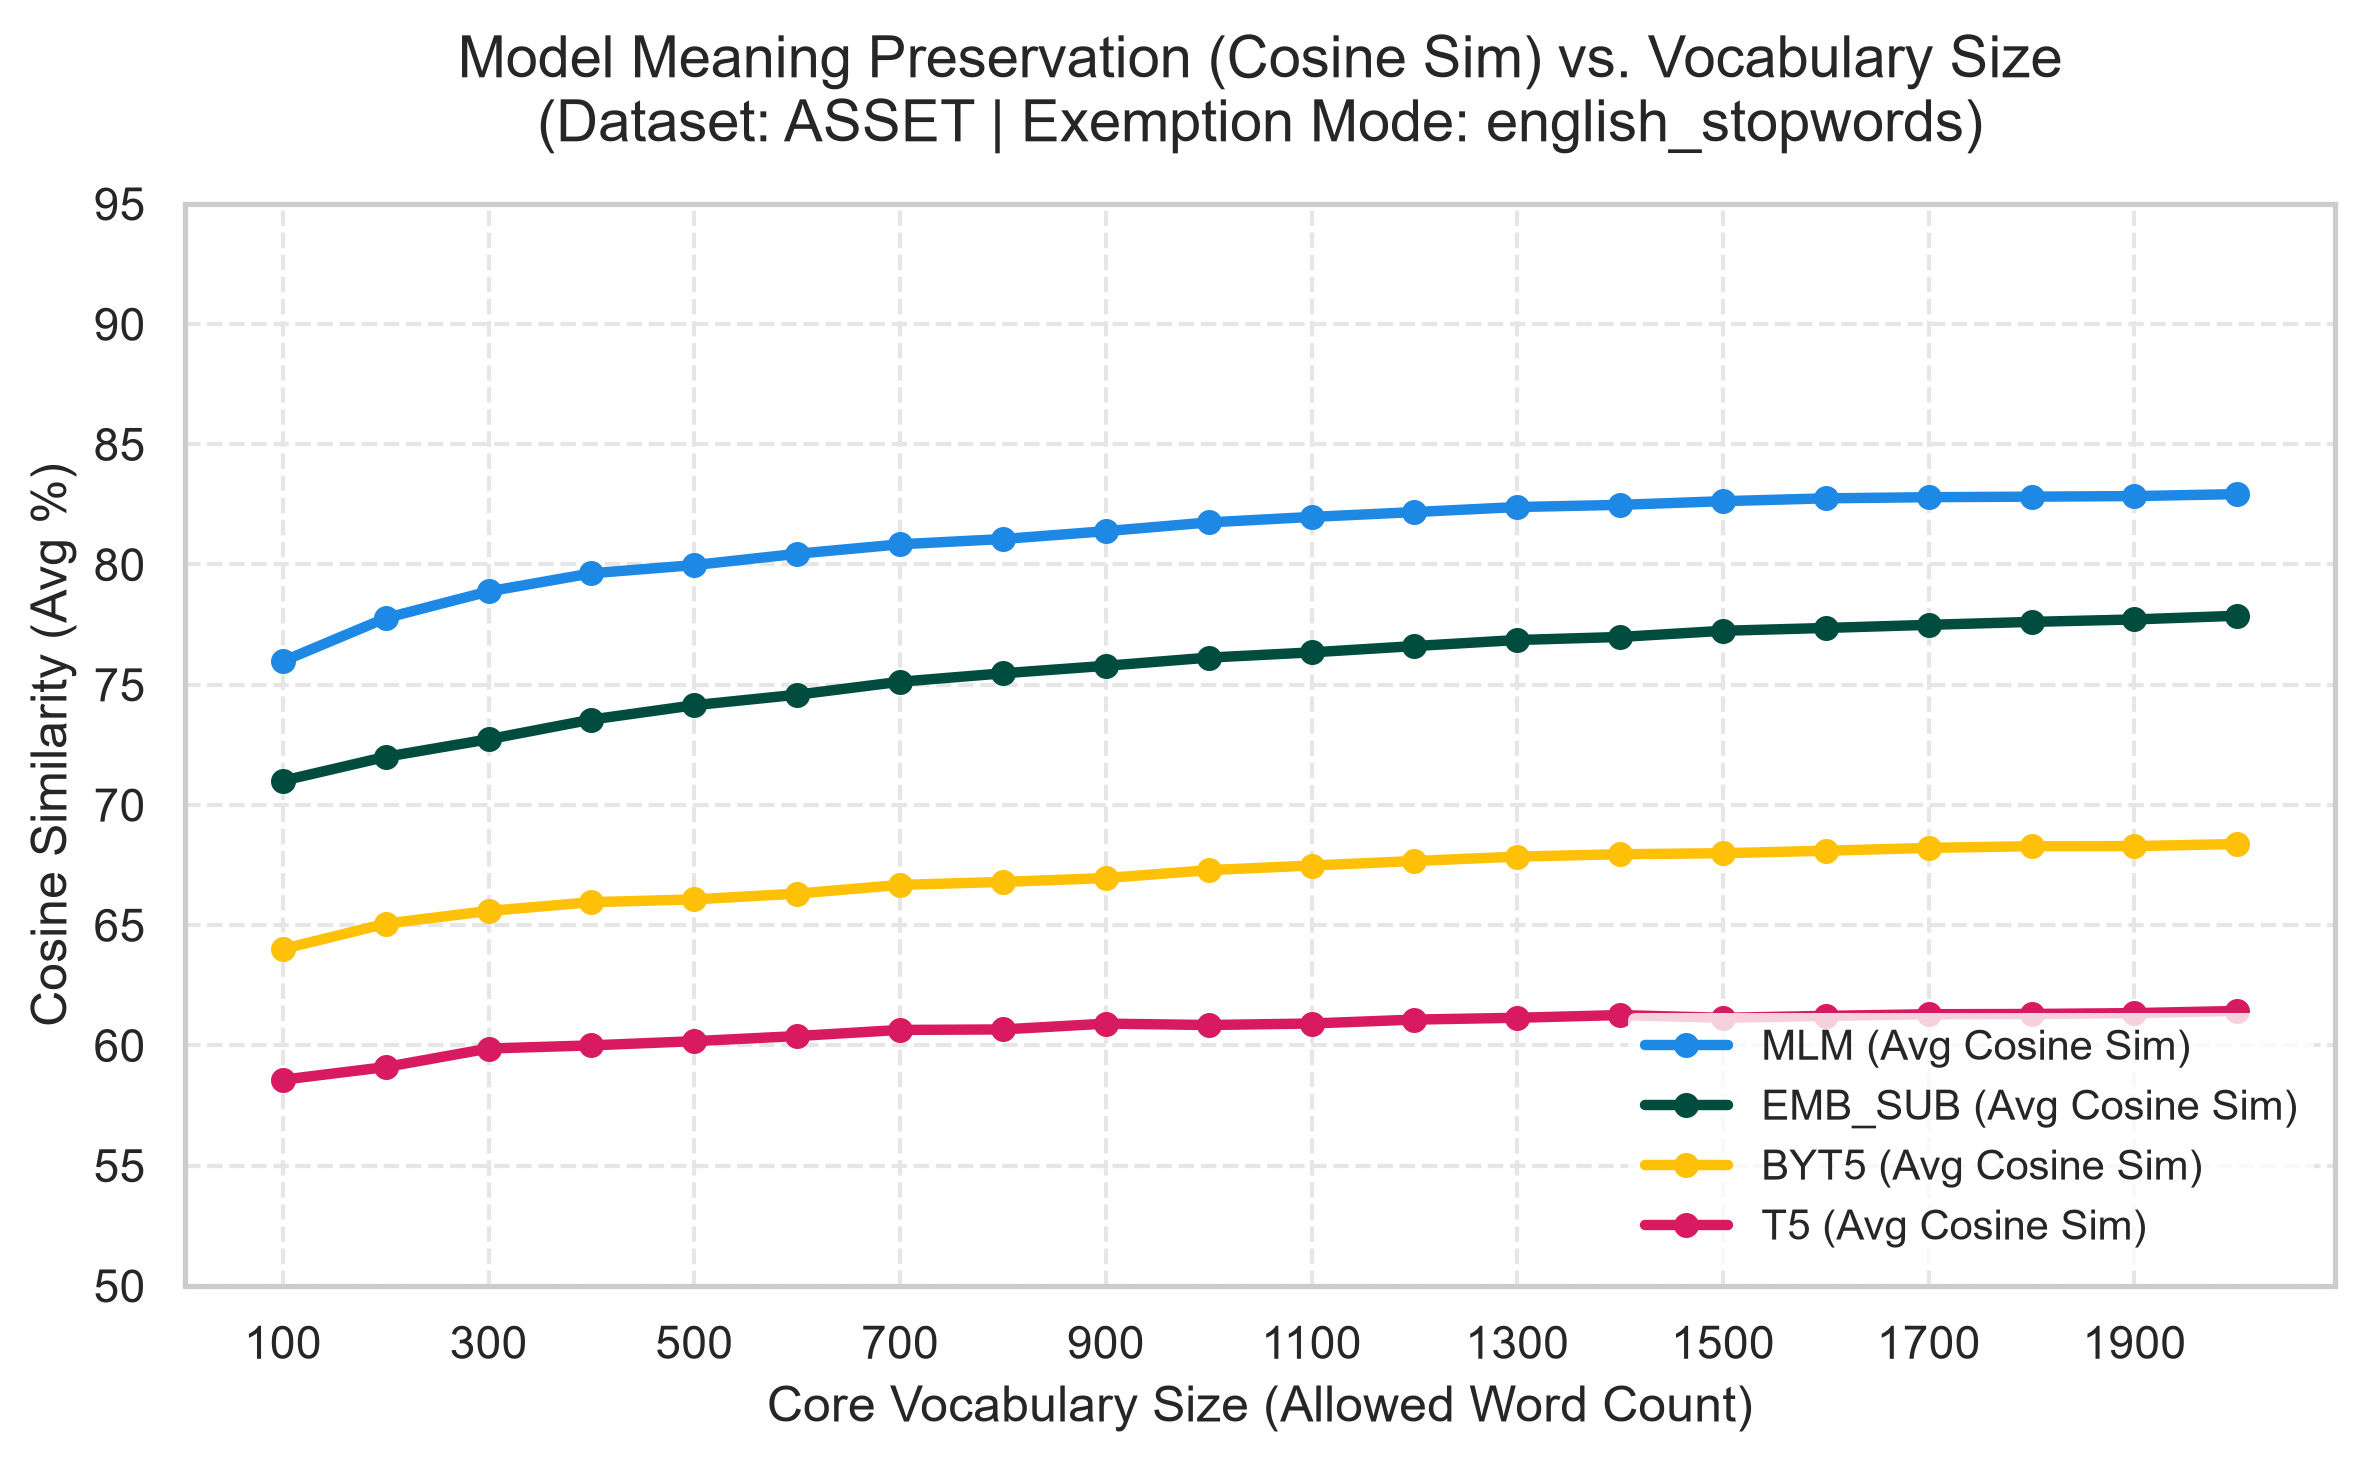
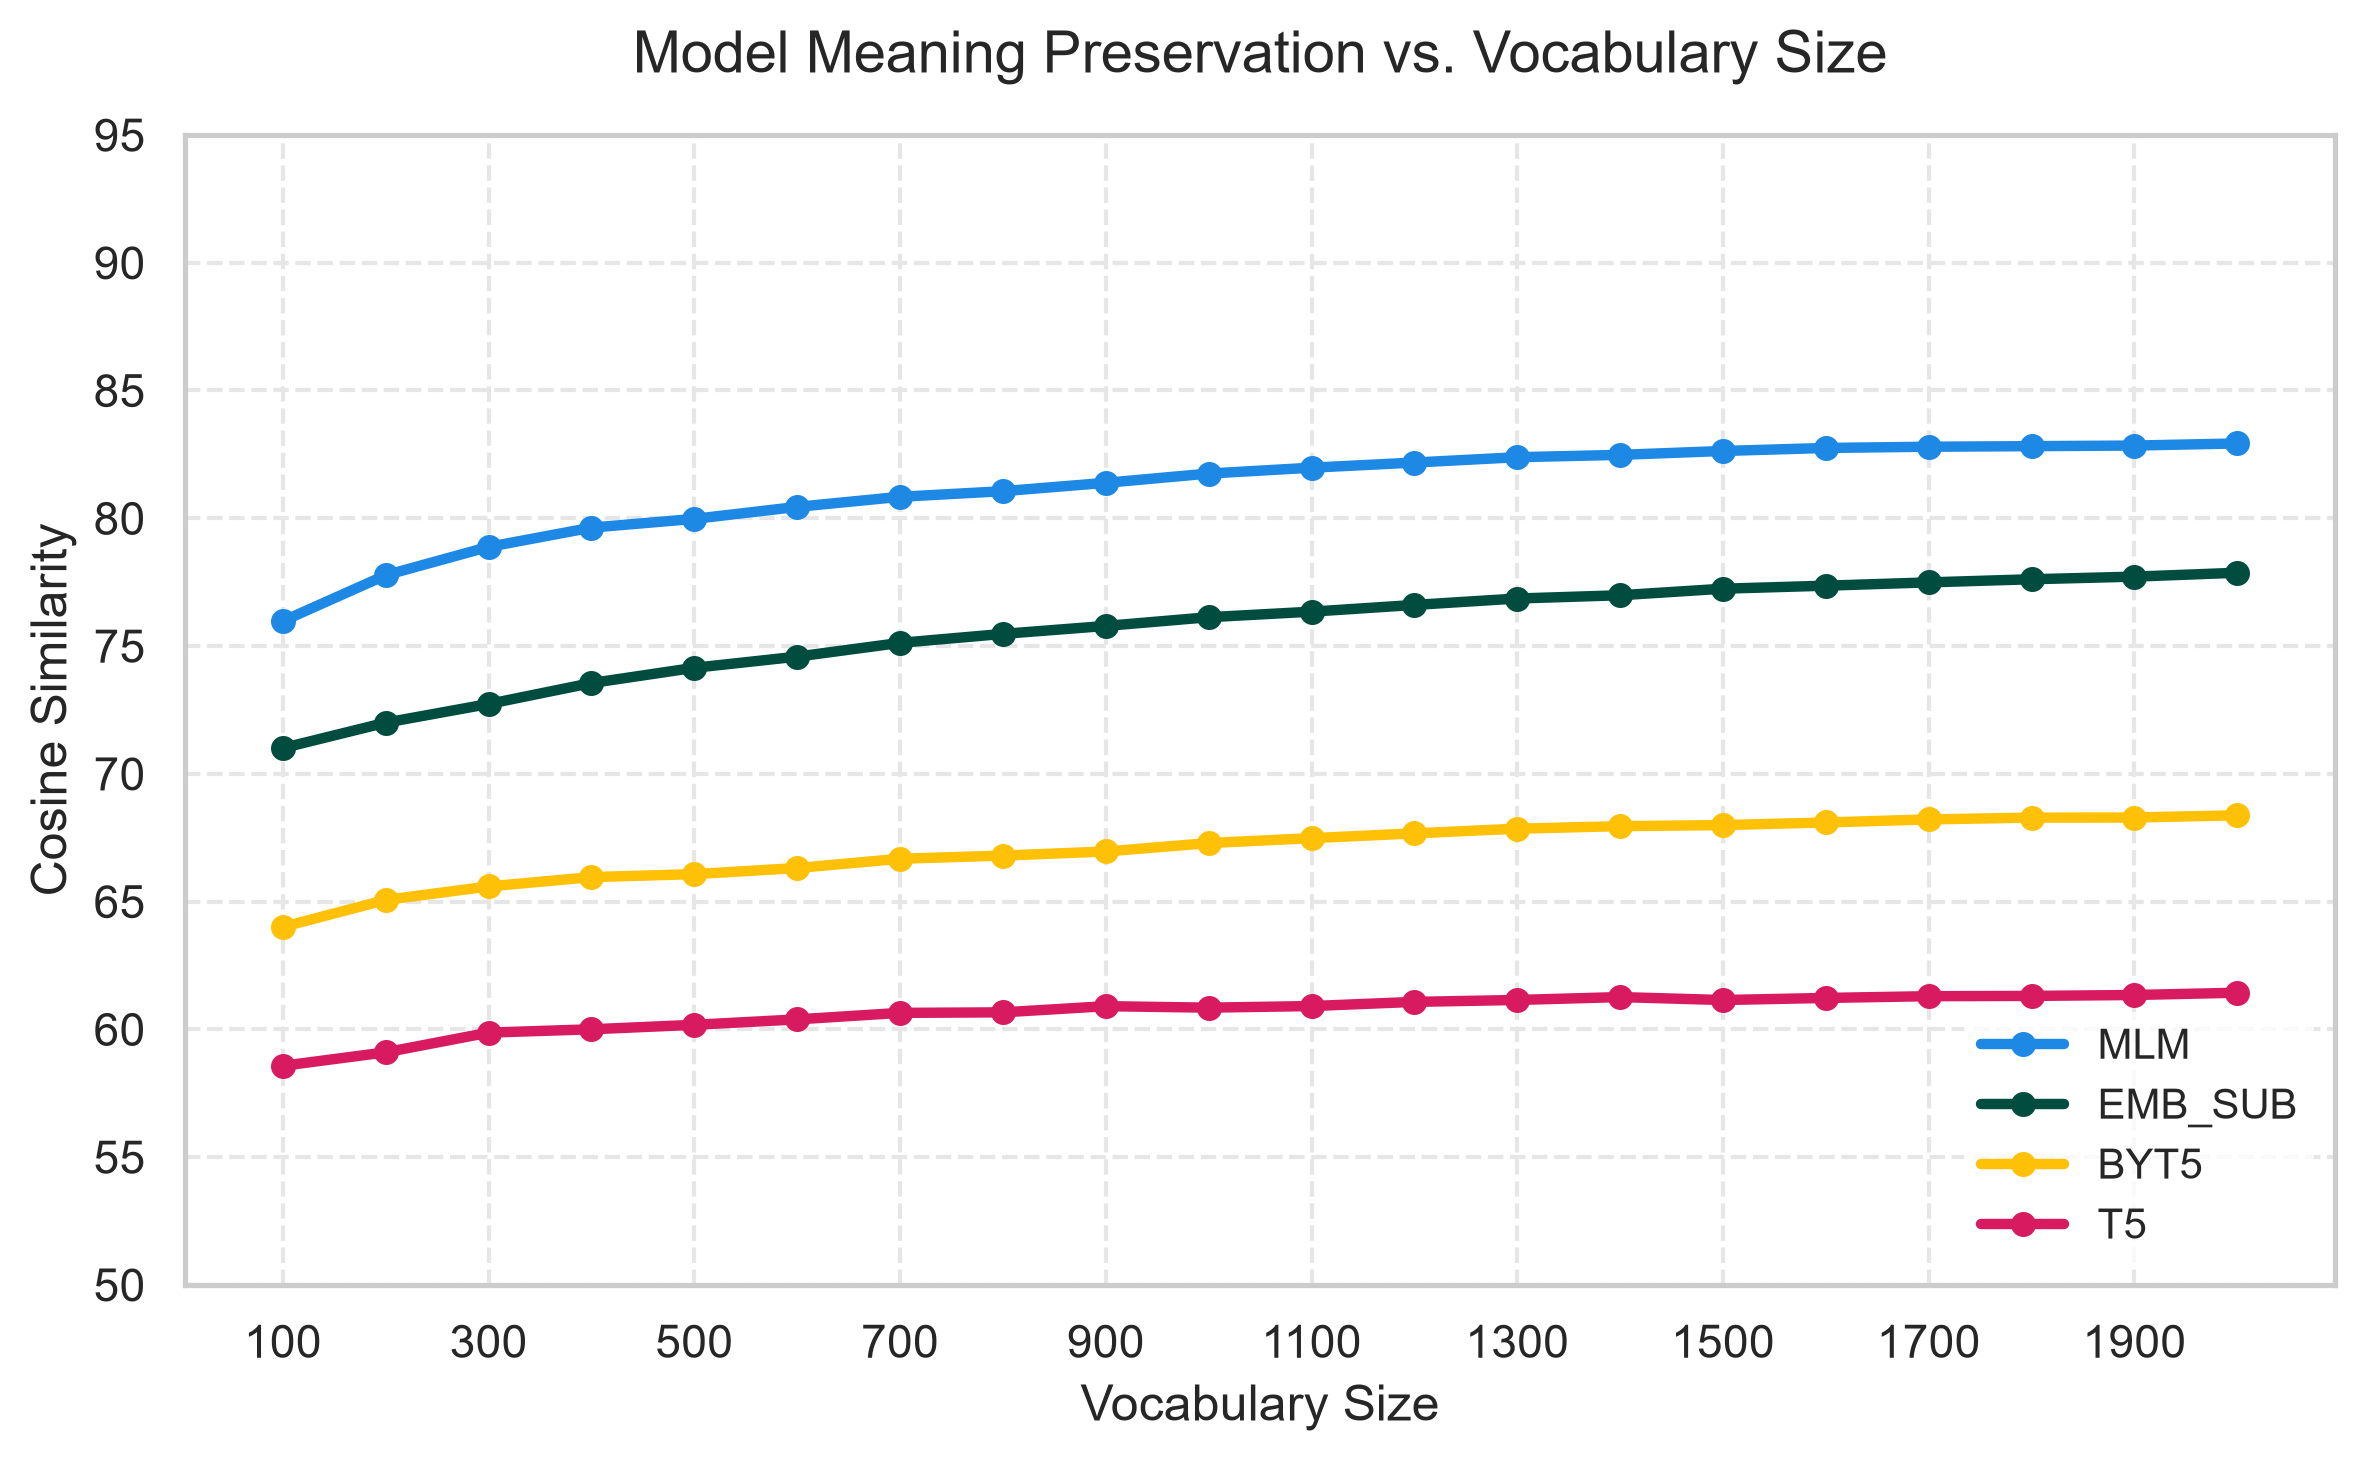
cleaner graphs

diff --git a/NewApproach/analysis/generate_graphs.py b/NewApproach/analysis/generate_graphs.py
@@ -131,7 +131,7 @@ def main():
                 linewidth=2.5,
                 markersize=5,
                 color=model_colors[model],
-                label=f"{model} (Avg Cosine Sim)"
+                label=f"{model}"
             )
     ax1c.set_title("Model Meaning Preservation vs. Vocabulary Size", pad=15)
     ax1c.set_xlabel("Vocabulary Size")
